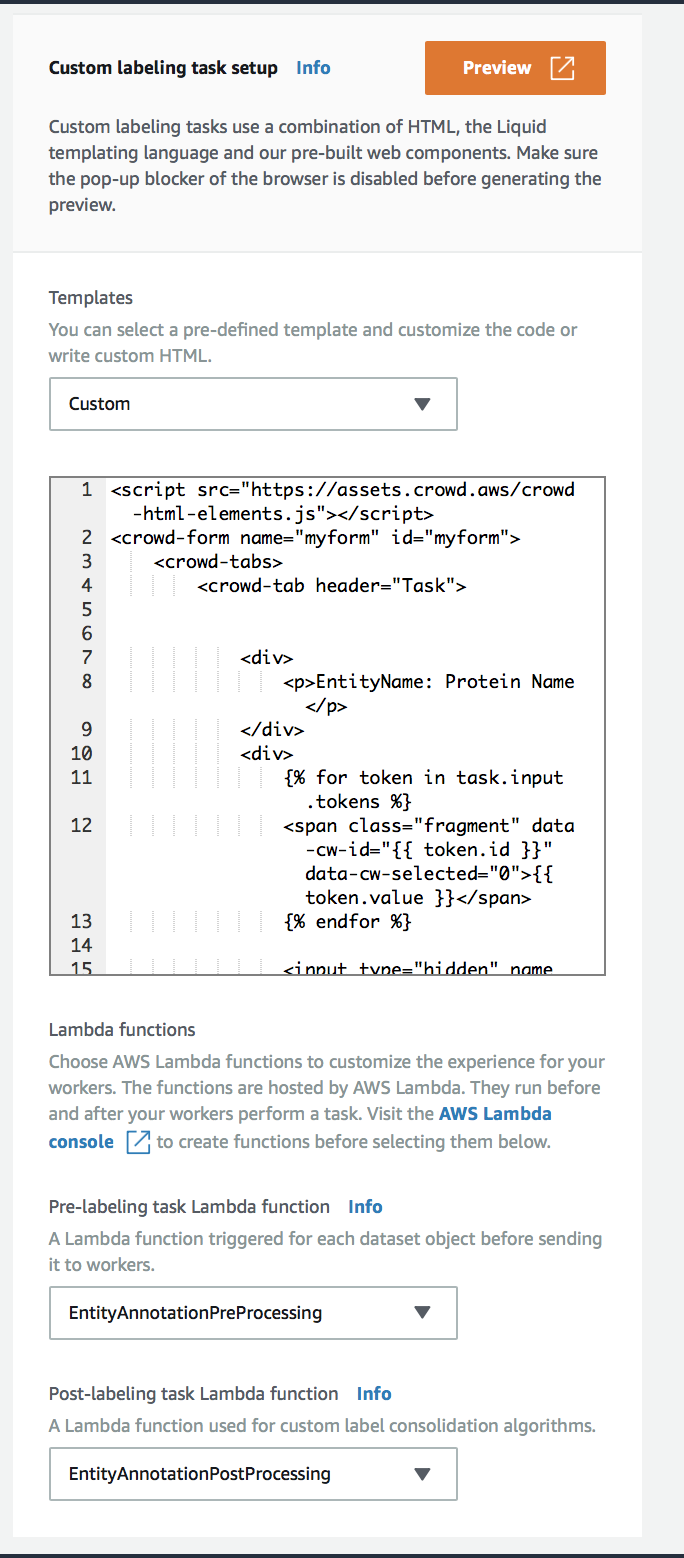
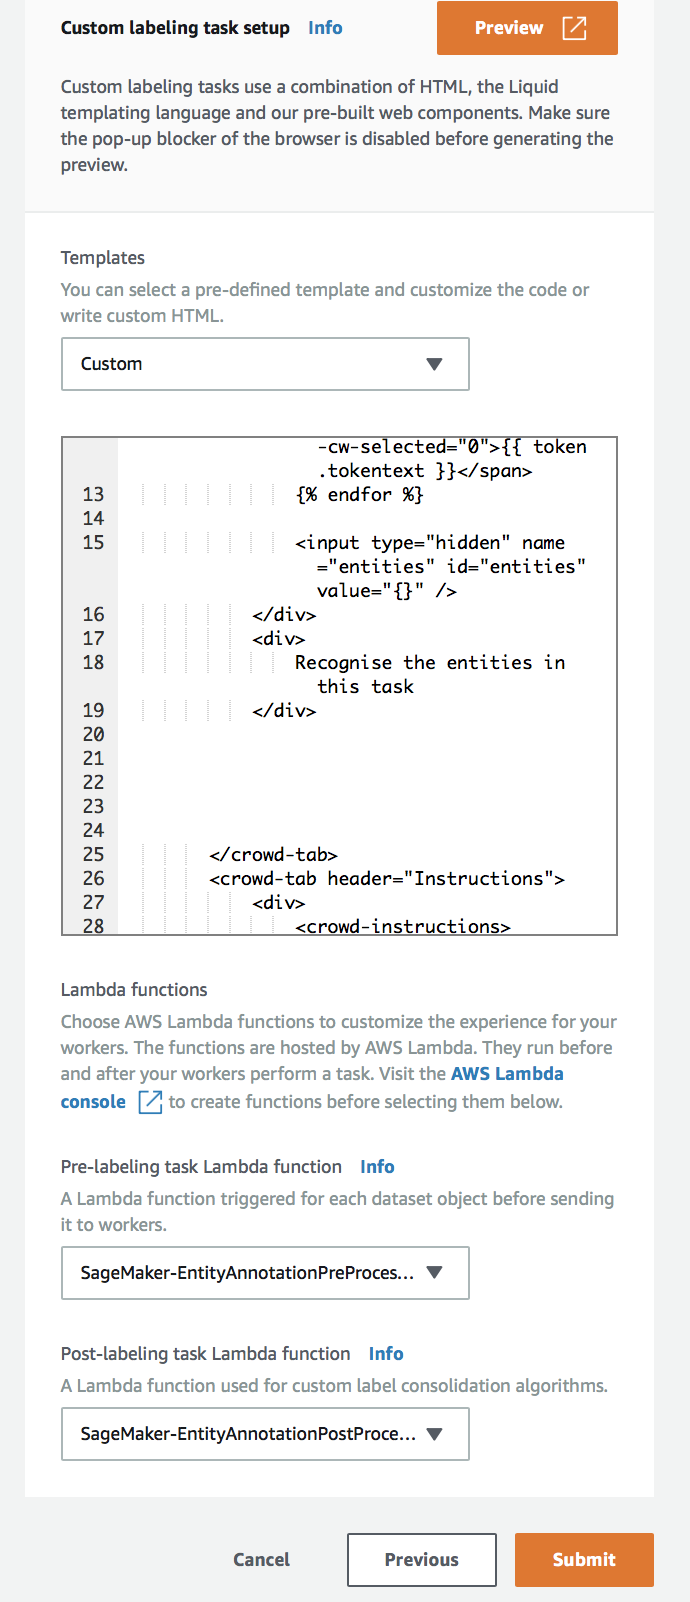
Refactor and fix one of the known issues

Changed region(s): [[0.0, 0.0, 1.0, 1.0], [0.8596, 0.2773, 0.9211, 0.5854], [0.7675, 0.4313, 0.8289, 0.4621]]

diff --git a/source/template/entityrecognition.html b/source/template/entityrecognition.html
@@ -5,18 +5,16 @@
 
 
             <div>
-                <p>EntityName: Protein Name</p>
+                <p>Recognise the entities in this task: EntityType - Protein Name. Select the entity by clicking on the text</p>
             </div>
             <div>
                 {% for token in task.input.tokens %}
-                <span class="fragment" data-cw-id="{{ token.id }}"  data-cw-selected="0">{{ token.value }}</span>
+                <span class="fragment" data-cw-id="{{ token.id }}" data-cw-start-index="{{ token.startindex }}"  data-cw-selected="0">{{ token.tokentext }}</span>
                 {% endfor %}
 
                 <input type="hidden" name="entities" id="entities" value="{}" />
             </div>
-            <div>
-                Recognise the entities in this task
-            </div>
+
 
 
 
@@ -45,6 +43,8 @@
     $(".fragment").click(function () {
         var text = $(this).text();
         var id = $(this).attr("data-cw-id")
+        var start_index = $(this).attr("data-cw-start-index")
+
         if  ( $(this).attr("data-cw-selected") == "0" ){
             var annotation_val = $("#entities").val()
             if (annotation_val == '' || annotation_val == null) {
@@ -52,7 +52,7 @@
             } else {
                 annotation = JSON.parse(annotation_val)
             }
-            annotation[id]=text
+            annotation[id]= {"startindex": start_index, "tokentext" : text }
             $("#entities").val(JSON.stringify(annotation));
             $(this).attr("data-cw-selected",  "1")
             $(this).attr("style",  "background-color:yellow;")

diff --git a/tests/test_postProcessNERAnnotation.py b/tests/test_postProcessNERAnnotation.py
@@ -21,44 +21,33 @@ class TestPostProcessNERAnnotation(TestCase):
                  "outputConfig": "s3://mybucket/output/EntityRecognition-ProtienName/annotations"}
 
         payload = [
+
             {
-                "datasetObjectId": "21277",
+                "datasetObjectId": "1",
                 "dataObject": {
-                    "content": "24525236"
+                    "content": "Protein tyrosine regulates insulin receptor protein."
                 },
                 "annotations": [
                     {
                         "workerId": "private.us-east-2.LMI3IGP47RB6RXWSMWOAYMG57U",
                         "annotationData": {
-                            "content": "{\"entities\":\"{\\\"0\\\":\\\"17135270\\\"}\"}"
+                            "content": '{"entities": "{\\"0\\":{\\"startindex\\":\\"10\\",\\"tokentext\\":\\"tyrosine\\"},\\"1\\":{\\"startindex\\":\\"15\\",\\"tokentext\\":\\"receptor\\"}}"}'
+
                         }
                     }
                 ]
             },
             {
-                "datasetObjectId": "6323",
+                "datasetObjectId": "2",
                 "dataObject": {
-                    "content": "17135270"
+                    "content": "Proteins klk3 regulates insulin receptor proteins."
                 },
                 "annotations": [
                     {
                         "workerId": "private.us-east-2.LMI3IGP47RB6RXWSMWOAYMG57U",
                         "annotationData": {
-                            "content": "{\"entities\":\"{\\\"0\\\":\\\"17135270\\\"}\"}"
-                        }
-                    }
-                ]
-            },
-            {
-                "datasetObjectId": "15098",
-                "dataObject": {
-                    "content": "19524513|a|Programmed necrosis is a form of caspase-independent cell death whose molecular regulation is poorly understood. The kinase RIP1 is crucial for programmed necrosis, but also mediates activation of the prosurvival transcription factor NF-kappaB. We postulated that additional molecules are required to specifically activate programmed necrosis. Using a RNA interference screen, we identified the kinase RIP3 as a crucial activator for programmed necrosis induced by TNF and during virus infection. RIP3 regulates necrosis-specific RIP1 phosphorylation. The phosphorylation of RIP1 and RIP3 stabilizes their association within the pronecrotic complex, activates the pronecrotic kinase activity, and triggers downstream reactive oxygen species production. The pronecrotic RIP1-RIP3 complex is induced during vaccinia virus infection. Consequently, RIP3(-/-) mice exhibited severely impaired virus-induced tissue necrosis, inflammation, and control of viral replication. Our findings suggest that RIP3 controls programmed necrosis by initiating the pronecrotic kinase cascade, and that this is necessary for the inflammatory response against virus infections."
-                },
-                "annotations": [
-                    {
-                        "workerId": "private.us-east-2.LMI3IGP47RB6RXWSMWOAYMG57U",
-                        "annotationData": {
-                            "content": "{\"entities\":\"{\\\"17\\\":\\\"RIP1\\\",\\\"32\\\":\\\"NF-kappaB.\\\",\\\"47\\\":\\\"RNA\\\",\\\"53\\\":\\\"kinase\\\",\\\"54\\\":\\\"RIP3\\\",\\\"69\\\":\\\"RIP3\\\",\\\"72\\\":\\\"RIP1\\\",\\\"77\\\":\\\"RIP1\\\",\\\"79\\\":\\\"RIP3\\\",\\\"101\\\":\\\"RIP1-RIP3\\\",\\\"110\\\":\\\"RIP3(-/-)\\\",\\\"128\\\":\\\"RIP3\\\"}\"}"
+                            "content": '{"entities": "{\\"0\\":{\\"startindex\\":\\"10\\",\\"tokentext\\":\\"klk3\\"},\\"1\\":{\\"startindex\\":\\"15\\",\\"tokentext\\":\\"receptor\\"}}"}'
+
                         }
                     }
                 ]
@@ -67,15 +56,20 @@ class TestPostProcessNERAnnotation(TestCase):
 
         expected = [
             {
-                "datasetObjectId": "21277",
+                "datasetObjectId": "1",
                 "consolidatedAnnotation": {
                     "content": {
                         "EntityRecognition-ProtienName": {
                             "entities": [
                                 {
-                                    "start_index": "0",
+                                    "start_index": "10",
                                     "length": 8,
-                                    "token": "17135270"
+                                    "token": "tyrosine"
+                                },
+                                {
+                                    "start_index": "15",
+                                    "length": 8,
+                                    "token": "receptor"
                                 }
                             ]
                         }
@@ -83,86 +77,20 @@ class TestPostProcessNERAnnotation(TestCase):
                 }
             },
             {
-                "datasetObjectId": "6323",
+                "datasetObjectId": "2",
                 "consolidatedAnnotation": {
                     "content": {
                         "EntityRecognition-ProtienName": {
                             "entities": [
                                 {
-                                    "start_index": "0",
+                                    "start_index": "10",
+                                    "length": 4,
+                                    "token": "klk3"
+                                },
+                                {
+                                    "start_index": "15",
                                     "length": 8,
-                                    "token": "17135270"
-                                }
-                            ]
-                        }
-                    }
-                }
-            },
-            {
-                "datasetObjectId": "15098",
-                "consolidatedAnnotation": {
-                    "content": {
-                        "EntityRecognition-ProtienName": {
-                            "entities": [
-                                {
-                                    "start_index": "17",
-                                    "length": 4,
-                                    "token": "RIP1"
-                                },
-                                {
-                                    "start_index": "32",
-                                    "length": 10,
-                                    "token": "NF-kappaB."
-                                },
-                                {
-                                    "start_index": "47",
-                                    "length": 3,
-                                    "token": "RNA"
-                                },
-                                {
-                                    "start_index": "53",
-                                    "length": 6,
-                                    "token": "kinase"
-                                },
-                                {
-                                    "start_index": "54",
-                                    "length": 4,
-                                    "token": "RIP3"
-                                },
-                                {
-                                    "start_index": "69",
-                                    "length": 4,
-                                    "token": "RIP3"
-                                },
-                                {
-                                    "start_index": "72",
-                                    "length": 4,
-                                    "token": "RIP1"
-                                },
-                                {
-                                    "start_index": "77",
-                                    "length": 4,
-                                    "token": "RIP1"
-                                },
-                                {
-                                    "start_index": "79",
-                                    "length": 4,
-                                    "token": "RIP3"
-                                },
-                                {
-                                    "start_index": "101",
-                                    "length": 9,
-                                    "token": "RIP1-RIP3"
-                                },
-                                {
-                                    "start_index": "110",
-                                    "length": 9,
-                                    "token": "RIP3(-/-)"
-                                },
-                                {
-                                    "start_index": "128",
-                                    "length": 4,
-                                    "token": "RIP3"
+                                    "token": "receptor"
                                 }
                             ]
                         }
@@ -178,7 +106,7 @@ class TestPostProcessNERAnnotation(TestCase):
         sut.s3_client = mock_s3_client
 
         # Act
-        actual = sut.post_process(event)
+        actual = sut.process(event)
 
         # Assert
         self.assertEqual(actual, expected)

diff --git a/source/lambda_preprocess/preprocess_handler.py b/source/lambda_preprocess/preprocess_handler.py
@@ -1,13 +1,42 @@
+import logging
+from itertools import groupby
+
+
 def lambda_handler(event, context):
-    print(event)
+    logger = logging.getLogger(__name__)
+    logger.setLevel(logging.DEBUG)
+    logger.debug("{}".format(event))
+
     text = event['dataObject']['source']
-    # TODO: use nltk tokeniser..
-    tokens = text.split(" ")
-    #TODO: Include token position within text
-    token_values = [{"id": i, "value": val} for i, val in enumerate(tokens)]
+
+    token_values = PreProcessNERAnnotation().process(event)
+
     result = {
         "taskInput": {"tokens": token_values, "text": text},
         "humanAnnotationRequired": True
     }
-    print(result)
+    logger.debug("{}".format(result))
     return result
+
+
+class PreProcessNERAnnotation:
+    def __init__(self):
+        pass
+
+    def _split_and_get_index(self, text, sep=' '):
+        p = 0
+        for k, g in groupby(text, lambda x: x == sep):
+            q = p + sum(1 for i in g)
+            if not k:
+                yield p, q
+            p = q
+
+    def process(self, event):
+        text = event['dataObject']['source']
+        # TODO: use nltk tokeniser..
+
+        token_positions = self._split_and_get_index(text, ' ')
+
+        token_values = [{"id": i, "startindex": p, "tokentext": text[p:q]} for i, (p, q) in enumerate(token_positions)]
+
+        return token_values

diff --git a/source/lambda_postprocess/postprocess_handler.py b/source/lambda_postprocess/postprocess_handler.py
@@ -5,11 +5,12 @@ import math
 import logging
 
 
-def postprocess_handler(event, context):
+def lambda_handler(event, context):
     logger = logging.getLogger(__name__)
-    logger.debug("{}".format(context))
+    logger.setLevel(logging.DEBUG)
+    logger.debug("{}".format(event))
 
-    result = PostProcessNERAnnotation().post_process(event)
+    result = PostProcessNERAnnotation().process(event)
 
     return result
 
@@ -32,7 +33,7 @@ class PostProcessNERAnnotation:
     def s3_client(self, value):
         self.__s3_client__ = value
 
-    def post_process(self, event):
+    def process(self, event):
 
         payload_uri = event["payload"]["s3Uri"]
         labelAttributeName = event["labelAttributeName"]
@@ -58,8 +59,9 @@ class PostProcessNERAnnotation:
             for a in r["annotations"]:
                 entities_annotations = json.loads(a["annotationData"]["content"])
 
-                for start_index, token in json.loads(entities_annotations["entities"]).items():
-
+                for key, value in json.loads(entities_annotations["entities"]).items():
+                    start_index = value['startindex']
+                    token = value['tokentext']
                     length = len(token)
                     hit_key = "{}#{}".format(start_index, length)
                     if hit_key not in annotations_hit: annotations_hit[hit_key] = 0

diff --git a/tests/test_preProcessNERAnnotation.py b/tests/test_preProcessNERAnnotation.py
@@ -1,0 +1,35 @@
+import json
+from io import StringIO, BytesIO
+from unittest import TestCase
+from unittest.mock import Mock
+
+from postprocess_handler import PostProcessNERAnnotation
+from preprocess_handler import PreProcessNERAnnotation
+
+
+class TestPostProcessNERAnnotation(TestCase):
+
+    def test_process(self):
+        # Arrange
+        sut = PreProcessNERAnnotation()
+
+        event = {
+            "version": "2018-10-06",
+            "labelingJobArn": "arn:aws:sagemaker:us-east-2:1111:labeling-job/entityrecognition-clone-clone-clone-clone",
+            "dataObject": {
+                "source": "Protein tyrosine regulates insulin receptor protein."
+            }
+        }
+
+        expected = [{'id': 0, 'startindex': 0, 'tokentext': 'Protein'},
+                    {'id': 1, 'startindex': 8, 'tokentext': 'tyrosine'},
+                    {'id': 2, 'startindex': 17, 'tokentext': 'regulates'},
+                    {'id': 3, 'startindex': 27, 'tokentext': 'insulin'},
+                    {'id': 4, 'startindex': 35, 'tokentext': 'receptor'},
+                    {'id': 5, 'startindex': 44, 'tokentext': 'protein.'}]
+
+        # Act
+        actual = sut.process(event)
+
+        # Assert
+        self.assertEqual(actual, expected)

diff --git a/README.md b/README.md
@@ -8,16 +8,24 @@ This has 3 components
 
 ![Preview](docs/preview.png)
 
+
+## Known issues
+1. Does not support multi-word entities on the user interface. 
+
+
 ## Setup
-1. Create a lambda function EntityAnnotationPreProcessing with runtime python 3.6 using the code [source/lambda_preprocess/preprocess_handler.py](source/lambda_preprocess/preprocess_handler.py)
-1. Create a lambda function EntityAnnotationPostProcessing with runtime python 3.6 using the code [source/lambda_postprocess/postprocess_handler.py](source/lambda_postprocess/postprocess_handler.py)
+1. Create a lambda function SageMaker-EntityAnnotationPreProcessing with runtime python 3.6 using the code [source/lambda_preprocess/preprocess_handler.py](source/lambda_preprocess/preprocess_handler.py). 
+1. Create a lambda function SageMaker-EntityAnnotationPostProcessing with runtime python 3.6 using the code [source/lambda_postprocess/postprocess_handler.py](source/lambda_postprocess/postprocess_handler.py). Make sure this has access to read the s3 bucket containing the results from Sagemaker groundtruth job you are about to create
 1. Configure SageMaker Ground Truth as follows:
+   
+  
    - Choose custom template in Sagemaker Ground Truth
    - In the custom template section, copy paste the html from [source/template/entityrecognition.html](source/template/entityrecognition.html)
-   - In the Pre-labelling task lambda function, select EntityAnnotationPreProcessing
-   - In the Post-labelling task lambda function, select EntityAnnotationPostProcessing
+   - In the Pre-labelling task lambda function, select Sagemaker-EntityAnnotationPreProcessing
+   - In the Post-labelling task lambda function, select Sagemaker-EntityAnnotationPostProcessing
+   -    **Note** Using the naming convention SageMaker-* for your lambda functions automatically gives access to Sagemaker using the standard template. Otherwise you would have to use create an IAM policy and provide access to Sagemaker to execute the lambda function
 
-
+   - There is a sample text file [tests/sample_input_data_pubtator.txt](tests/sample_input_data_pubtator.txt) included to test the set up.
 ![setup](docs/setup_custom_template.png)
 
  
@@ -28,7 +36,3 @@ This has 3 components
 export PYTHONPATH=./source
 pytests
 ```
-
-## Known issues
-1. Does not support Multi-word entities on the ui.
-2. Entity index in the text is currently the token index, but should be the position on the character..
